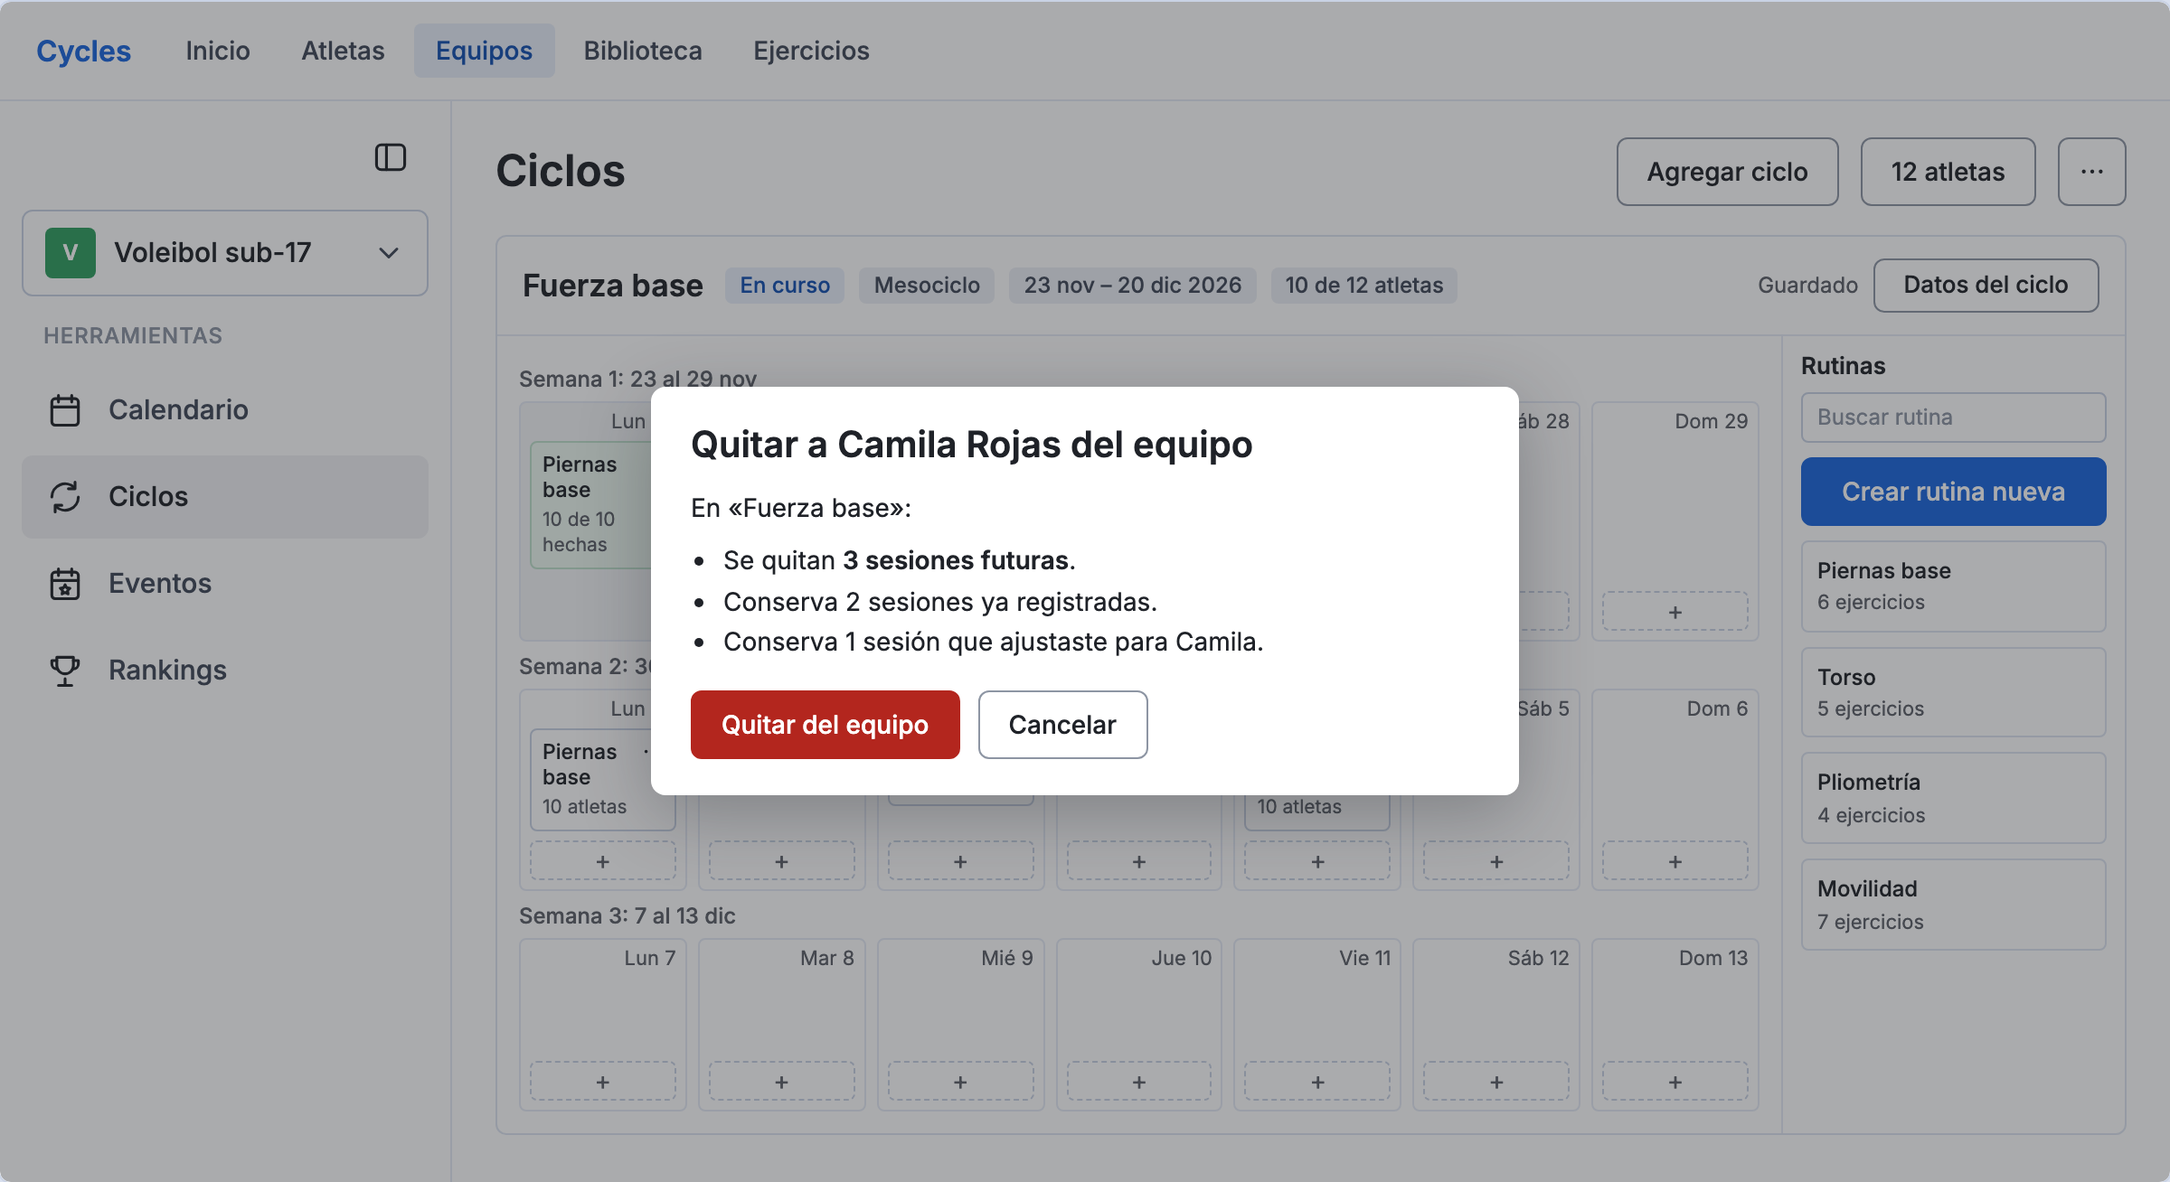
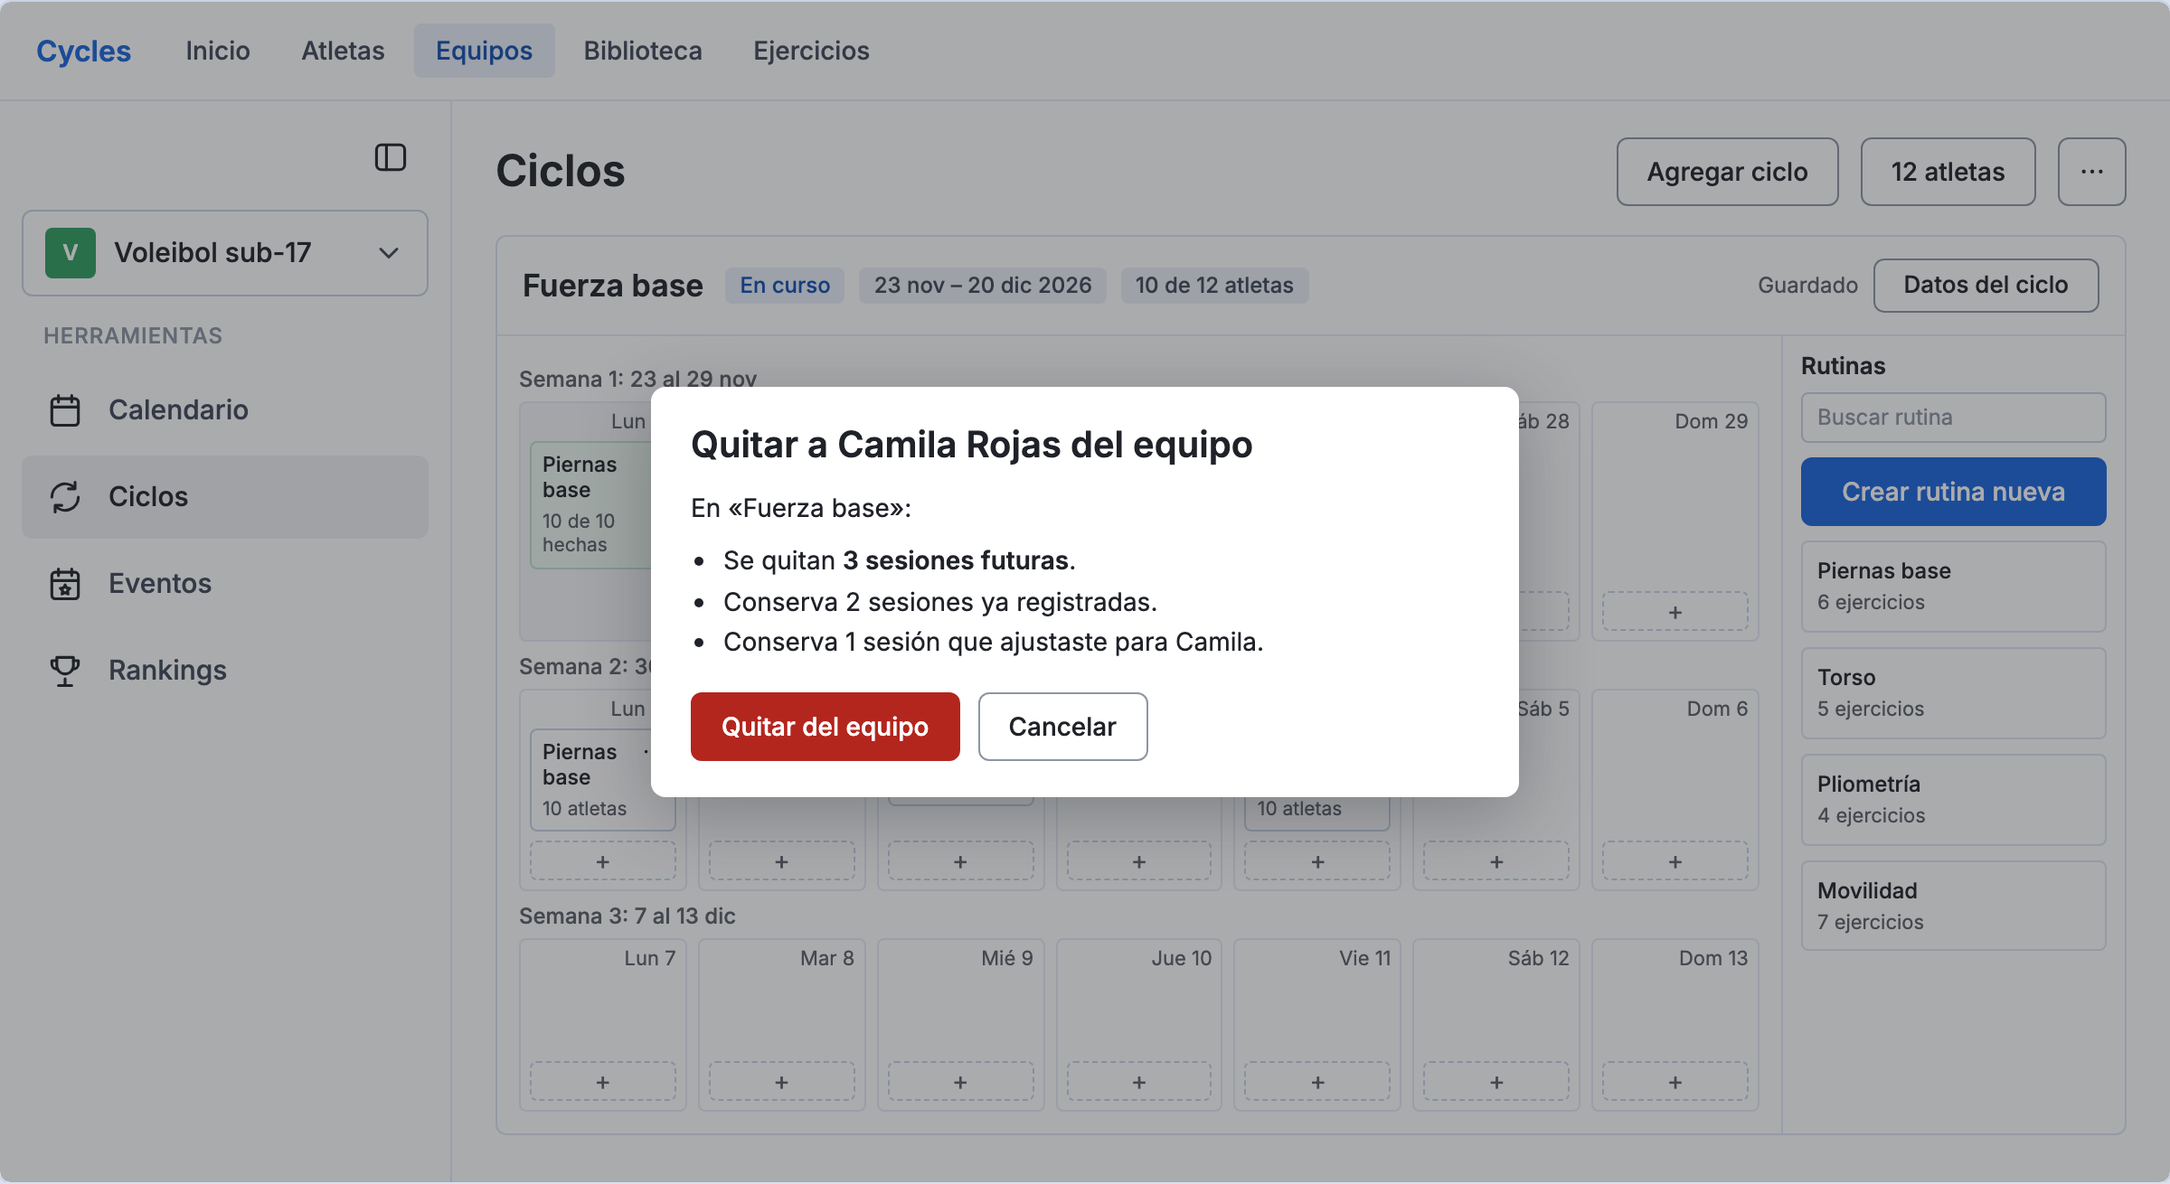
Nuevo ciclo por calendario, sin tipo ni sesiones por semana (CYC-316)

diff --git a/docs/diseno/ciclo-del-equipo/propuestas.html b/docs/diseno/ciclo-del-equipo/propuestas.html
@@ -544,6 +544,22 @@ body{font-family:Inter,-apple-system,system-ui,sans-serif;background:#d9e0ee;col
 .cq-ex span.v{border:1px solid #c9d2e4;border-radius:4px;text-align:center;padding:7px 0}
 .cq-li{font:400 14px/1.6 Inter;padding-left:18px;margin:0 0 4px}
 .cq-mem{grid-template-columns:minmax(160px,1fr) 190px minmax(200px,1.2fr)}
+/* ===== Nuevo ciclo: rango en calendario ===== */
+.cq-mos{display:grid;grid-template-columns:1fr 1fr;gap:22px;border:1px solid #dde4f0;border-radius:6px;padding:12px 14px}
+.cq-mh{display:flex;align-items:center;justify-content:space-between;font:500 14px/1 Inter;margin-bottom:10px}
+.cq-mh b{font-weight:400;color:#3f4757;width:24px;text-align:center}
+.cq-g{display:grid;grid-template-columns:repeat(7,1fr);row-gap:3px;text-align:center}
+.cq-g i{font:500 11px/22px Inter;font-style:normal;color:#8d95a3}
+.cq-g span{font:400 13px/30px Inter;position:relative}
+.cq-g span.in{background:#e8effb}
+.cq-g span.edge{background:#1a66dd;color:#fff;font-weight:500;border-radius:4px}
+.cq-g span.today{box-shadow:inset 0 0 0 1px #1f2228;border-radius:4px}
+.cq-g span.busy{color:#8f4410;background:#fdeede}
+.cq-g span.own:after{content:"";position:absolute;left:50%;bottom:3px;width:4px;height:4px;margin-left:-2px;border-radius:50%;background:#e0752b}
+.cq-sum{margin-top:10px;font:500 14px/1.4 Inter}
+.cq-sum.mut{font-weight:400;color:#5c6068}
+.cq-leg{display:flex;gap:14px;margin-top:8px;font:400 12px/1.3 Inter;color:#5c6068}
+.cq-leg i{display:inline-block;width:10px;height:10px;border-radius:2px;margin-right:5px;vertical-align:-1px}
 
 </style>
 </head>
@@ -716,12 +732,42 @@ function vacio(){
 }
 const bgCic=()=>`<div class="t3mn">${hd()}<div class="t3emp" style="min-height:560px"><h3>Este equipo aún no tiene ciclo</h3></div></div>`;
 const fl=(l,v,ph)=>`<div class="cq-fl"><div>${l}</div><div class="cq-in ${ph?'ph2':''}">${v}</div></div>`;
+// Calendario de rango: from y to como [mes, día]; mes 11 o 12 de 2026.
+const key=(m,d)=>m*100+d;
+function month(m,name,off,len,o={}){
+ const {from=null,to=null,busy=null,own=[]}=o;
+ let cells=Array.from({length:off},()=>'<span></span>');
+ for(let d=1;d<=len;d++){const k=key(m,d);const c=[];
+  if(from&&k===from) c.push('edge'); else if(to&&k===to) c.push('edge'); else if(from&&to&&k>from&&k<to) c.push('in');
+  if(busy&&k>=busy[0]&&k<=busy[1]&&!c.length) c.push('busy');
+  if(k===key(11,25)&&!c.includes('edge')) c.push('today');
+  if(own.includes(k)) c.push('own');
+  cells.push(`<span class="${c.join(' ')}">${d}</span>`);}
+ return `<div><div class="cq-mh"><b>${m===11?'‹':''}</b>${name}<b>${m===12?'›':''}</b></div><div class="cq-g">${['L','M','M','J','V','S','D'].map(x=>`<i>${x}</i>`).join('')}${cells.join('')}</div></div>`;
+}
+const rango=(o)=>`<div style="font:500 13px/1 Inter;margin-bottom:6px">Fechas del ciclo</div><div class="cq-mos">${month(11,'Noviembre 2026',6,30,o)}${month(12,'Diciembre 2026',1,31,o)}</div>`;
+const acts=(label,off)=>`<div class="cq-acts" style="justify-content:flex-end"><span class="t3btn">Cancelar</span><span class="t3btn pr" style="${off?'opacity:.45':''}">${label}</span></div>`;
+const nombre=(v,ph)=>`${fl('Nombre',v,ph)}${fl('Objetivo (opcional)',ph?'Por ejemplo, base de fuerza':'Base de fuerza antes de la liga',ph)}`;
+const dlgEq=(inner)=>CQ(side('Ciclos'),`<div class="t3mn">${hd()}<div class="t3emp" style="min-height:700px"><h3>Este equipo aún no tiene ciclo</h3></div></div>`,scrim(640,inner));
 function datos(){
- return CQ(side('Ciclos'),bgCic(),scrim(520,`<h3>Nuevo ciclo para Voleibol sub-17</h3>
- ${fl('Nombre','Fuerza base')}${fl('Objetivo (opcional)','Base de fuerza antes de la liga')}
- ${fl('Tipo de ciclo','Mesociclo')}
- <div class="cq-2">${fl('Fecha de inicio','23 nov 2026')}${fl('Duración','4 semanas')}</div>
- <div class="cq-acts" style="justify-content:flex-end"><span class="t3btn">Cancelar</span><span class="t3btn pr">Continuar</span></div>`));
+ return dlgEq(`<h3>Nuevo ciclo para Voleibol sub-17</h3>${nombre('Fuerza base')}${rango({from:key(11,23),to:key(12,20)})}<div class="cq-sum" role="status">Del lunes 23 nov al domingo 20 dic: 4 semanas</div>${acts('Continuar')}`);
+}
+function datosVacio(){
+ return dlgEq(`<h3>Nuevo ciclo para Voleibol sub-17</h3>${nombre('Nombre del ciclo',1)}${rango({})}<div class="cq-sum mut" role="status">Elige el primer día en el calendario.</div>${acts('Continuar',1)}`);
+}
+function datosInicio(){
+ return dlgEq(`<h3>Nuevo ciclo para Voleibol sub-17</h3>${nombre('Fuerza base')}${rango({from:key(11,23)})}<div class="cq-sum mut" role="status">Empieza el lunes 23 nov. Ahora elige el último día.</div>${acts('Continuar',1)}`);
+}
+function datosAtleta(){
+ const o={from:key(11,25),to:key(12,11),own:[key(11,26),key(11,27),key(11,28),key(11,29),key(11,30),key(12,1),key(12,2),key(12,3),key(12,4)]};
+ return CQ(side('Ciclos'),`<div class="t3mn"><div class="t3hd"><h2>Camila Rojas</h2></div><div class="t3emp" style="min-height:700px"></div></div>`,scrim(640,`<h3>Nuevo ciclo para Camila Rojas</h3>${fl('Nombre','Rehabilitación hombro')}${fl('Objetivo (opcional)','Volver a cargar el hombro')}${rango(o)}<div class="cq-sum" role="status">Del miércoles 25 nov al viernes 11 dic: 2 semanas y 3 días</div><div class="cq-leg"><span><i style="background:#e0752b;border-radius:50%;width:6px;height:6px"></i>Días con otro ciclo de Camila</span></div>${acts('Crear ciclo')}`)).replace('class="on">Equipos','>Equipos').replace('<span class="">Atletas','<span class="on">Atletas').replace(/<aside class="t3sb[\s\S]*?<\/aside>/,'').replace('class="t3sh" style="--sbw:250px"','class="t3sh" style="grid-template-columns:1fr"');
+}
+function semanasDesdeMiercoles(){
+ const cab=['Mié','Jue','Vie','Sáb','Dom','Lun','Mar'];
+ const w=(label,nums,extra={})=>wk(label,nums.map((n,i)=>{const t=`${cab[i]} ${n}`;
+  if(extra[i]==='out') return `<div class="cq-d p"><div class="h"><span></span><span>${t}</span></div><span class="pt">Fuera del ciclo</span></div>`;
+  return day(t,extra[i]||'',i===0&&nums[0]===25?{today:true}:{});}));
+ return `<div class="web t3 wide" style="min-height:420px"><div style="padding:18px 20px"><div class="cq-cyc"><div class="cq-ch"><b>Rehabilitación hombro</b><span class="cq-pill bl">En curso</span><span class="cq-pill">25 nov – 11 dic 2026</span></div><div class="cq-cal">${w('Semana 1: mié 25 nov al mar 1 dic',[25,26,27,28,29,30,1],{0:ses('Movilidad','7 ejercicios'),2:ses('Torso','5 ejercicios')})}${w('Semana 2: mié 2 al mar 8 dic',[2,3,4,5,6,7,8])}${w('Semana 3: mié 9 al vie 11 dic',[9,10,11,12,13,14,15],{3:'out',4:'out',5:'out',6:'out'})}</div></div>${note('Cada fila son 7 días contados desde el primer día del ciclo. Si el ciclo termina a mitad de fila, los días que sobran dicen «Fuera del ciclo». No hay casillas por sesión: en cada día caben las que quieras.')}</div></div>`;
 }
 const ck=(on,off)=>`<span class="cq-ck ${on?'on':''} ${off?'off':''}">${on?IC.chk:''}</span>`;
 const pr=(a,c,off,tag='')=>`<div class="cq-pr">${ck(c,off)}${AVb(a[0])}<span style="${off?'color:#8d95a3':''}">${a[1]}</span>${tag}</div>`;
@@ -743,7 +789,7 @@ function weeks(){
  wk('Semana 3: 7 al 13 dic',[day('Lun 7'),day('Mar 8'),day('Mié 9'),day('Jue 10'),day('Vie 11'),day('Sáb 12'),day('Dom 13')]);
 }
 const panelRt=`<div class="cq-rt"><h4>Rutinas</h4><div class="srch2">Buscar rutina</div><span class="t3btn pr" style="justify-content:center">Crear rutina nueva</span>${[['Piernas base','6 ejercicios'],['Torso','5 ejercicios'],['Pliometría','4 ejercicios'],['Movilidad','7 ejercicios']].map(r=>`<div class="r">${r[0]}<small>${r[1]}</small></div>`).join('')}</div>`;
-const cycHead=(save='Guardado')=>`<div class="cq-ch"><b>Fuerza base</b><span class="cq-pill bl">En curso</span><span class="cq-pill">Mesociclo</span><span class="cq-pill">23 nov – 20 dic 2026</span><span class="cq-pill">10 de 12 atletas</span><span class="cq-save">${save}</span><span class="t3btn" style="height:30px;font-size:13px">Datos del ciclo</span></div>`;
+const cycHead=(save='Guardado')=>`<div class="cq-ch"><b>Fuerza base</b><span class="cq-pill bl">En curso</span><span class="cq-pill">23 nov – 20 dic 2026</span><span class="cq-pill">10 de 12 atletas</span><span class="cq-save">${save}</span><span class="t3btn" style="height:30px;font-size:13px">Datos del ciclo</span></div>`;
 const board=(over='')=>`<div class="t3mn">${hd('<span class="t3btn">Agregar ciclo</span>')}<div class="cq-cyc">${cycHead()}<div class="cq-bd"><div class="cq-cal">${weeks()}</div>${panelRt}</div></div>${over}</div>`;
 function pizarra(){
  return CQ(side('Ciclos'),board(note('Es la misma pizarra del ciclo de un atleta: arrastra una rutina a un día o usa «+». Cada gesto se guarda solo y llega a los integrantes. Lo registrado no cambia.')));
@@ -793,17 +839,16 @@ function eliminarEquipo(){
  <div class="cq-acts"><span class="t3btn pr" style="background:#b3261e;border-color:#b3261e">Eliminar equipo</span><span class="t3btn">Cancelar</span></div>`));
 }
 function chocaEquipo(){
- return CQ(side('Ciclos'),board(),scrim(520,`<h3>Nuevo ciclo para Voleibol sub-17</h3>
- <div class="cq-warn" role="alert">El equipo ya tiene «Fuerza base» del 23 nov al 20 dic. Elige otras fechas: por ahora el equipo tiene un solo ciclo a la vez.</div>
- ${fl('Nombre','Preparación liga')}<div class="cq-2">${fl('Fecha de inicio','7 dic 2026')}${fl('Duración','4 semanas')}</div>
- <div class="cq-acts" style="justify-content:flex-end"><span class="t3btn">Cancelar</span><span class="t3btn pr" style="opacity:.45">Continuar</span></div>`));
+ const o={from:key(12,7),to:key(12,31),busy:[key(11,25),key(12,20)]};
+ return CQ(side('Ciclos'),board(),scrim(640,`<h3>Nuevo ciclo para Voleibol sub-17</h3><div class="cq-warn" role="alert">Esas fechas se cruzan con «Fuerza base», que va hasta el 20 dic. Por ahora el equipo tiene un solo ciclo a la vez: elige desde el 21 dic.</div>${fl('Nombre','Preparación liga')}${rango(o)}<div class="cq-leg"><span><i style="background:#fdeede;border:1px solid #f0c9a0"></i>Días de «Fuerza base»</span></div>${acts('Continuar',1)}`));
 }
 function novedad(){
  return `<div class="web t3" style="min-height:420px;background:#cfd8ea;display:grid;place-items:center"><div style="width:440px;background:#fff;border-radius:8px;overflow:hidden;box-shadow:0 10px 40px rgba(31,34,40,.3)"><div style="height:170px;background:#f3f6fc;display:flex;align-items:center;justify-content:center;gap:14px"><div style="width:110px">${ses('Piernas base','Equipo')}</div><span style="font:500 24px/1 Inter;color:#1a66dd">→</span><div style="display:flex">${ATH.slice(0,4).map(a=>`<div style="margin-left:-4px">${AVb(a[0])}</div>`).join('')}</div></div><div style="padding:18px 22px 20px"><div style="font:600 20px/1.25 Inter;margin-bottom:8px">Planifica el ciclo de tu equipo</div><div style="font:400 15px/1.45 Inter;color:#3f4757;margin-bottom:16px">Pon las sesiones una vez en el calendario del equipo y llegan a cada integrante.</div><div style="display:flex;justify-content:flex-end"><span class="t3btn pr">Entendido</span></div></div></div></div>`;
 }
 const out=document.getElementById('out');
 const add=(id,label,items)=>out.insertAdjacentHTML('beforeend',`<div class="lab">${label}</div><div class="row" id="${id}">${items.map(([c,h])=>`<div class="fr">${h}<div class="cap">${c}</div></div>`).join('')}</div>`);
-add('r1','1 · Crear el ciclo del equipo',[['Equipo sin ciclo',vacio()],['Paso 1: los mismos datos de un ciclo nuevo',datos()],['Paso 2: quién lo recibe, con aviso de ciclos propios',quien()],['Error: ya hay un ciclo del equipo en esas fechas (por confirmar)',chocaEquipo()]]);
+add('r1','1 · Crear el ciclo del equipo',[['Equipo sin ciclo',vacio()],['Nuevo ciclo, sin fechas elegidas',datosVacio()],['Elegido el primer día',datosInicio()],['Rango elegido: las fechas y la duración salen del calendario',datos()],['Paso 2: quién lo recibe, con aviso de ciclos propios',quien()],['Error: ya hay un ciclo del equipo en esas fechas (por confirmar)',chocaEquipo()]]);
+add('r1b','1b · El mismo flujo para un atleta, y la pizarra sin sesiones por semana',[['Nuevo ciclo de un atleta: se crea directo',datosAtleta()],['Ciclo que empieza un miércoles',semanasDesdeMiercoles()]]);
 add('r2','2 · Calendario del ciclo del equipo',[['La pizarra de siempre, para todo el equipo',pizarra()],['Menú de una sesión y aviso con Deshacer',menuMover()],['Quién lo recibe',integrantes()]]);
 add('r3','3 · Cambios',[['Editar la sesión del equipo: llega a los integrantes',editarEquipo()],['Editar desde la ficha de un atleta: solo su sesión',ventanaAtleta()]]);
 add('r4','4 · Entrar y salir del equipo',[['Al agregar un atleta se pregunta',entra()],['Al quitarlo, se avisa antes',sale()],['Al eliminar el equipo, también (propuesta)',eliminarEquipo()]]);

diff --git a/docs/diseno/ciclo-del-equipo/README.md b/docs/diseno/ciclo-del-equipo/README.md
@@ -10,6 +10,33 @@ El botón «Agregar ciclo» de Equipos → Ciclos crea un ciclo para el equipo, 
 4. Al sacar un atleta conserva lo registrado y las sesiones ajustadas para él; se quitan sus demás sesiones futuras del ciclo del equipo, avisando antes.
 5. Si un atleta ya tiene ciclo propio en esas fechas, conviven; antes de crear el ciclo se avisa quiénes lo tienen y el coach decide por persona.
 
+## Nuevo ciclo por calendario (pedido de la usuaria, 25-11)
+
+> «Haremos un nuevo diseño para crear los ciclos, lo haremos por fechas en un calendario. Solo lo que se debe rellenar a mano es el nombre, el objetivo seguirá siendo opcional. El tipo de ciclo ya no lo usaremos, y la fecha de inicio y la duración se obtendrán del calendario que seleccionaremos.»
+
+Aplica a ciclos de **atleta** y de **equipo**. Las plantillas de la Biblioteca (no tienen fechas) quedan **pendientes de confirmar** y no se diseñan aquí.
+
+- **Campos escritos:** nombre (obligatorio) y objetivo (opcional).
+- **Fechas:** dos meses a la vista; un toque elige el primer día y otro el último. El rango se pinta y debajo dice «Del lunes 23 nov al domingo 20 dic: 4 semanas» (o «2 semanas y 3 días»). Tocar de nuevo empieza otro rango. «Continuar» o «Crear ciclo» se activa con nombre y rango.
+- **Se quitan:** tipo de ciclo (también su etiqueta en el encabezado del ciclo), fecha de inicio y duración escritas, y sesiones por semana.
+- **Marcas en el calendario:** hoy con contorno; para un atleta, un punto en los días con otro ciclo suyo (informa, no bloquea); para el equipo, los días de su otro ciclo en naranja, con el error si se cruzan.
+- **Teclado y lector:** el calendario se recorre con flechas, Enter elige, cada día se anuncia con su fecha completa y el resumen se lee al cambiar.
+- En el ciclo de un atleta no hay paso «Quién lo recibe»: se crea directo.
+
+### La pizarra sin «sesiones por semana»
+
+La pizarra actual (`apps/web/src/lib/board.ts`, `buildWeeks`) ya arma cada fila con 7 días por fecha; el dato no define filas. Hoy se usa en otros puntos, que Desarrollo debe resolver:
+
+| Uso actual | Propuesta |
+|---|---|
+| Ubicar sesiones antiguas sin fecha (`sessionOffset` → `defaultOffsets(slots)`) | Los ciclos antiguos conservan su valor; si es nulo, repartir por el orden de la sesión dentro de la semana |
+| La API exige `sessionsPerWeek` y `cycleType` al crear (salvo macrociclo) | Dejarlos opcionales para ciclos nuevos |
+| Crear sesión por casilla (`CycleDetailPage`, valida `slotNumber ≤ sessionsPerWeek`) | Los ciclos nuevos crean sesiones solo por fecha |
+| Copia de ciclos y plantillas (`cycles.service`, `account.service`) | Revisar los que hoy omiten ciclos sin `sessionsPerWeek` |
+
+- Cada fila son 7 días **desde el primer día del ciclo** (si empieza un miércoles, la fila va de miércoles a martes). Los días que sobran al final dicen «Fuera del ciclo». Captura `pizarra-desde-miercoles`.
+- Los macrociclos que ya existen no se tocan; qué pasa con ellos sin «tipo de ciclo» queda por confirmar.
+
 ## Por confirmar con la usuaria
 
 Nada de esta lista está aprobado; las maquetas lo muestran como propuesta.
@@ -21,6 +48,9 @@ Nada de esta lista está aprobado; las maquetas lo muestran como propuesta.
 5. En la primera versión el equipo tiene un solo ciclo por fechas (hay estado de error).
 6. Eliminar el equipo o su ciclo sigue la misma regla que sacar a un atleta, con aviso y cifras.
 7. Con ciclo propio y del equipo, «Hoy» del atleta muestra la sesión de hoy y, si no hay, la más cercana en fecha (propuesta de Desarrollo; falta diseñar cómo se distinguen).
+8. Si este nuevo «Nuevo ciclo» aplica también a las plantillas de la Biblioteca.
+9. Si se puede elegir un primer día anterior a hoy (las maquetas lo permiten).
+10. Qué pasa con los macrociclos existentes al quitar el tipo de ciclo.
 
 La propuesta técnica de Desarrollo general, con su diagrama, está en el comentario de CYC-314.
 
@@ -29,7 +59,9 @@ La propuesta técnica de Desarrollo general, con su diagrama, está en el coment
 | Paso | Captura |
 |---|---|
 | Equipo sin ciclo | `equipo-sin-ciclo` |
-| Nuevo ciclo: nombre, objetivo, tipo, inicio y duración | `nuevo-ciclo-datos` |
+| Nuevo ciclo: sin fechas, primer día y rango elegido | `nuevo-ciclo-sin-fechas`, `nuevo-ciclo-primer-dia`, `nuevo-ciclo-rango` |
+| Nuevo ciclo de un atleta | `nuevo-ciclo-atleta` |
+| Pizarra de un ciclo que empieza un miércoles | `pizarra-desde-miercoles` |
 | Quién lo recibe, con aviso de ciclos propios | `nuevo-ciclo-quien-recibe` |
 | Fechas ocupadas por otro ciclo del equipo | `nuevo-ciclo-fechas-ocupadas` |
 | Pizarra del equipo | `pizarra-del-equipo` |
@@ -45,7 +77,6 @@ La propuesta técnica de Desarrollo general, con su diagrama, está en el coment
 ## Reglas del diseño
 
 - **Se reutiliza la pizarra** (`docs/diseno/ciclos-pizarra`, variante A): rutinas a la derecha, «+» por día, arrastrar, menú ⋯, autoguardado y Deshacer. Los días pasados no aceptan sesiones.
-- **Sin «sesiones por semana»**: el plan del equipo se organiza por fechas.
 - **Cada tarjeta del equipo** dice a cuántos atletas llega; las pasadas, cuántos la hicieron; «N ajustada» cuando hay copias separadas. Esas cifras se calculan con las sesiones de cada atleta, porque el plan del equipo no tiene atleta.
 - **Después de guardar** un cambio se informa a cuántos llegó y cuántos no cambiaron, y por qué.
 - **El plan del equipo no tiene atleta:** no muestra series, RM ni «Sin RM» por persona. El % del RM está siempre disponible y el peso se calcula en la copia de cada atleta; a quien no tiene RM le llega el % sin peso con el aviso «Falta el RM».
